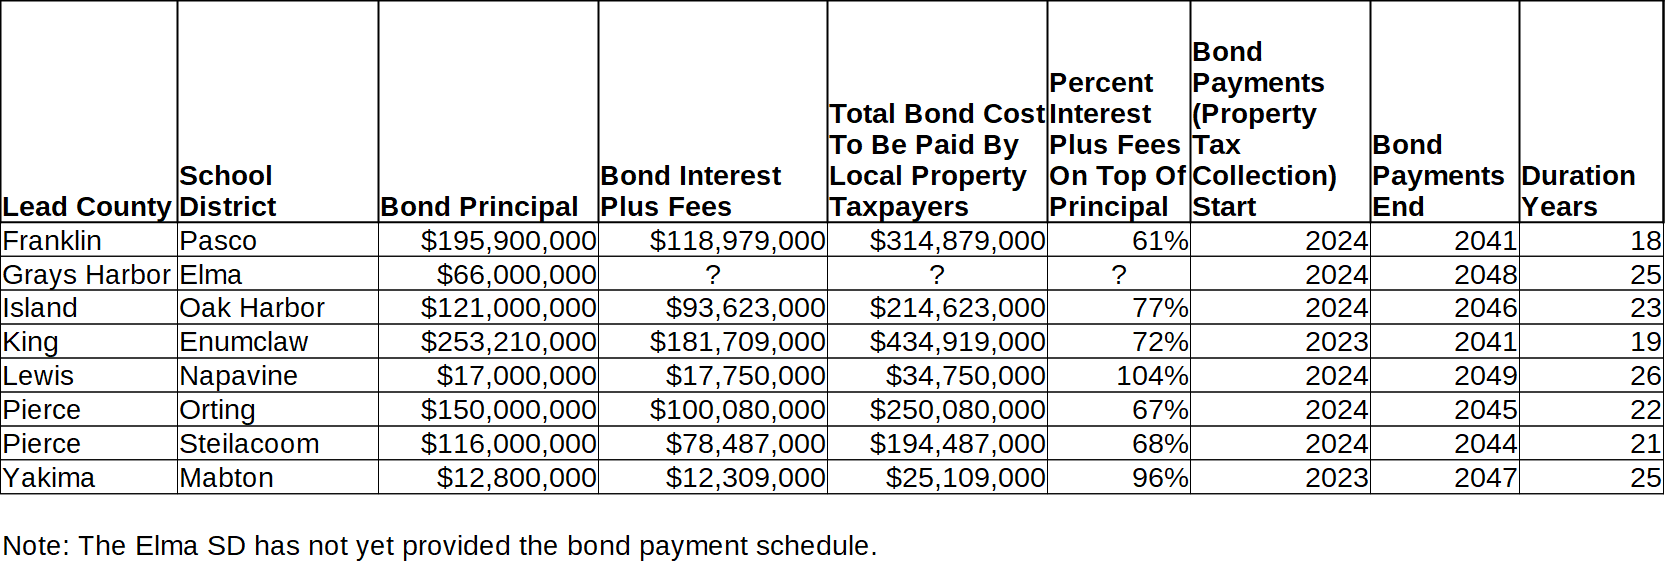
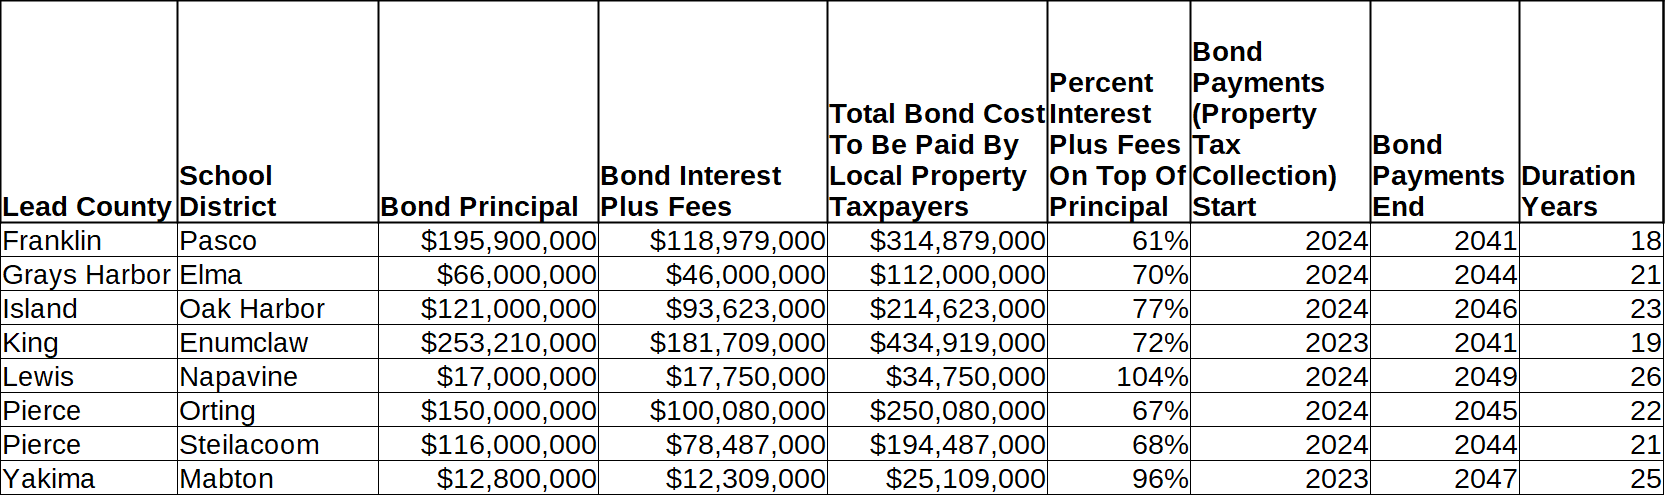
Updated bonds

Changed region(s): [[0.0, 0.0599, 1.0, 0.988]]

diff --git a/_includes/cost_estimates/20230214/Elma_20230214_Enhanced.html b/_includes/cost_estimates/20230214/Elma_20230214_Enhanced.html
@@ -1,0 +1,228 @@
+<html>
+ <head>
+  <script type="text/javascript" src="https://www.gstatic.com/charts/loader.js"></script>
+  <script type="text/javascript">
+    google.charts.load('current', {'packages':['corechart','bar','table']});
+    google.charts.setOnLoadCallback(drawStuff);
+
+	var table_input;
+	var table;
+	var chart;
+	//var data;
+	var dataParcel;
+	
+	totalBondAV = 1236590000;
+	sampleParcelAV = 300000;
+	sampleParcelAVMin = 100000;
+	sampleParcelAVMax = 2000000;
+	totalBondPrincipal = 66000000;
+	totalBondInterest = 45837000;
+	totalBondCost = totalBondPrincipal + totalBondInterest;
+	sampleParcelPOF = sampleParcelAV / totalBondAV;
+	totalBondCostParcel = 0;
+	totalBondPrincipalParcel = 0;
+	totalBondInterestParcel = 0;
+	bondYears = 21;
+	averageTotalBondCostParcel = 0;
+
+	// POF Annual Change Percent
+	pofAdjust = 0;
+	pofAdjustMin = -1.0;
+	pofAdjustMax = 1.0;
+
+    function drawStuff() {
+		data = new google.visualization.DataTable();
+		data.addColumn('string', 'Year');
+		data.addColumn('number', 'Principal');
+		data.addColumn('number', 'Interest + Fees');
+
+		data.addRows([
+			['2024', 2238200, 1702800],
+			['2025', 835691, 3218309],
+			['2026', 925674, 3241326],
+			['2027', 1112961, 3179039],
+			['2028', 1291170, 3121830],
+			['2029', 1485530, 3055470],
+			['2030', 1693872, 2979128],
+			['2031', 1918911, 2892089],
+			['2032', 2157502, 2793498],
+			['2033', 2412343, 2682657],
+			['2034', 2682271, 2558729],
+			['2035', 2977056, 2420944],
+			['2036', 3287975, 2268025],
+			['2037', 3613860, 2099140],
+			['2038', 3971477, 1913523],
+			['2039', 4347454, 1709546],
+			['2040', 4745733, 1486267],
+			['2041', 5174462, 1242538],
+			['2042', 5698779, 907221],
+			['2043', 6507791, 288209],
+			['2044', 6921288, 76712],
+
+		]);
+
+		dataParcel = new google.visualization.DataTable();
+		dataParcel.addColumn('string', 'Year');
+		dataParcel.addColumn('number', 'Principal');
+		dataParcel.addColumn('number', 'Interest + Fees');
+
+		dataParcel.addRows(bondYears);
+
+		sampleParcelPOFEffective = sampleParcelPOF;
+		totalBondPrincipalParcel = 0;
+		totalBondInterestParcel = 0;
+		for (let i = 0; i < bondYears; i++) {
+			sampleParcelPOFEffective = sampleParcelPOF * (1 + pofAdjust/100) ** (1 + i);
+			dataParcel.setCell(i, 0, data.getValue(i, 0));
+			dataParcel.setCell(i, 1, data.getValue(i, 1) * sampleParcelPOFEffective);
+			dataParcel.setCell(i, 2, data.getValue(i, 2) * sampleParcelPOFEffective);
+			totalBondPrincipalParcel = totalBondPrincipalParcel +  data.getValue(i, 1) * sampleParcelPOFEffective;
+			totalBondInterestParcel = totalBondInterestParcel +  data.getValue(i, 2) * sampleParcelPOFEffective;
+		}		
+		totalBondCostParcel = totalBondPrincipalParcel + totalBondInterestParcel;
+		averageTotalBondCostParcel = totalBondCostParcel / bondYears;
+
+		options = {
+			title: 'Estimated Bond Cost Schedule For The Sample Parcel',
+			isStacked: true,
+			hAxis: {
+			title: '',
+			//format: 'h:mm a',
+			viewWindow: {
+				min: [7, 30, 0],
+				max: [17, 30, 0]
+			}
+        },
+        vAxis: {
+			title: '$'
+        }
+		};
+	  
+
+		table_input_data = new google.visualization.DataTable();
+		table_input_data.addColumn('string', 'Description');
+		table_input_data.addColumn('number', 'Value');
+		table_input_data.addRows([
+			['Sample Parcel 2022 Tax Year Assessed Value (AV)', sampleParcelAV],
+		]);
+
+		table_data = new google.visualization.DataTable();
+		table_data.addColumn('string', 'Description');
+		table_data.addColumn('number', 'Value');
+		table_data.addRows([
+			['Total cost', totalBondCostParcel],
+			['Average cost per year for 21 years', averageTotalBondCostParcel],
+			['Total principal cost', totalBondPrincipalParcel],
+			['Total interest + fees cost', totalBondInterestParcel],
+		]);
+
+	  
+		chart = new google.visualization.ColumnChart(document.getElementById('chart_div'));
+		formatter = new google.visualization.NumberFormat(
+		{prefix: '$', fractionDigits:0, negativeColor: 'red', negativeParens: true});
+		formatter.format(dataParcel, 1); // Apply formatter to second column
+		formatter.format(dataParcel, 2); // Apply formatter to third column
+		chart.draw(dataParcel, options);
+		
+		table = new google.visualization.Table(document.getElementById('table_output_div'));
+		formatter.format(table_data, 1); // Apply formatter to second column
+		table.draw(table_data, {sort:'disable'});
+		
+		table_input = new google.visualization.Table(document.getElementById('table_input_div'));
+		formatter.format(table_input_data, 1); // Apply formatter to second column
+		table_input.draw(table_input_data, {sort:'disable'});
+
+		// POF Adjust table
+		table_pof_adjust_input_data = new google.visualization.DataTable();
+		table_pof_adjust_input_data.addColumn('string', 'Description');
+		table_pof_adjust_input_data.addColumn('number', 'Value');
+		table_pof_adjust_input_data.addRows([
+			['POF annual change', pofAdjust ],
+		]);
+ 
+		// Input table for POF change
+		formatterPercent1 = new google.visualization.NumberFormat(
+			{suffix: '%', fractionDigits:1, negativeColor: 'red', negativeParens: false});
+		table_pof_adjust_input = new google.visualization.Table(document.getElementById('table_pof_adjust_input_div'));
+		formatterPercent1.format(table_pof_adjust_input_data, 1); // Apply formatter to second column
+		table_pof_adjust_input.draw(table_pof_adjust_input_data, {sort:'disable'});
+	}
+
+    function changeParcelAV(dir) {
+		//Update table input
+		sampleParcelAV = sampleParcelAV + dir
+		if (sampleParcelAV < sampleParcelAVMin)
+			sampleParcelAV = sampleParcelAVMin
+		if (sampleParcelAV > sampleParcelAVMax)
+			sampleParcelAV = sampleParcelAVMax
+		sampleParcelPOF = sampleParcelAV / totalBondAV;
+		table_input_data.setValue(0, 1, sampleParcelAV);
+		formatter.format(table_input_data, 1); // Apply formatter to second column
+		table_input.draw(table_input_data);
+
+		//Update chart
+		sampleParcelPOFEffective = sampleParcelPOF;
+		totalBondPrincipalParcel = 0;
+		totalBondInterestParcel = 0;
+		for (let i = 0; i < bondYears; i++) {
+			sampleParcelPOFEffective = sampleParcelPOF * (1 + pofAdjust/100) ** (1 + i);
+			dataParcel.setCell(i, 0, data.getValue(i, 0));
+			dataParcel.setCell(i, 1, data.getValue(i, 1) * sampleParcelPOFEffective);
+			dataParcel.setCell(i, 2, data.getValue(i, 2) * sampleParcelPOFEffective);
+			totalBondPrincipalParcel = totalBondPrincipalParcel +  data.getValue(i, 1) * sampleParcelPOFEffective;
+			totalBondInterestParcel = totalBondInterestParcel +  data.getValue(i, 2) * sampleParcelPOFEffective;
+		}		
+		totalBondCostParcel = totalBondPrincipalParcel + totalBondInterestParcel;
+		averageTotalBondCostParcel = totalBondCostParcel / bondYears;
+		formatter.format(dataParcel, 1); // Apply formatter to second column
+		formatter.format(dataParcel, 2); // Apply formatter to third column
+		chart.draw(dataParcel, options);
+
+		//Update table output
+		sampleParcelPOF = sampleParcelAV / totalBondAV;
+		//totalBondCostParcel = sampleParcelPOF * totalBondCost;
+		//totalBondPrincipalParcel = sampleParcelPOF * totalBondPrincipal;
+		//totalBondInterestParcel = sampleParcelPOF * totalBondInterest;
+		table_data.setValue(0, 1, totalBondCostParcel); // Total bond cost parcel
+		table_data.setValue(1, 1, averageTotalBondCostParcel); // Average cost per year for parcel
+		table_data.setValue(2, 1, totalBondPrincipalParcel); // Total principal for parcel
+		table_data.setValue(3, 1, totalBondInterestParcel); // Total interest + fees for parcel
+		formatter.format(table_data, 1); // Apply formatter to second column
+		table.draw(table_data);
+    }
+	
+	function changePOFChange(dir) {
+		pofAdjust = pofAdjust + dir;
+		if (pofAdjust < pofAdjustMin)
+			pofAdjust = pofAdjustMin;
+		if (pofAdjust > pofAdjustMax)
+			pofAdjust = pofAdjustMax;
+		table_pof_adjust_input_data.setValue(0, 1, pofAdjust);
+		formatterPercent1.format(table_pof_adjust_input_data, 1); // Apply formatter to second column
+		table_pof_adjust_input.draw(table_pof_adjust_input_data);
+		changeParcelAV(0);
+	}
+
+  </script>
+ </head>
+ <body>
+  <H2>Property tax impact estimate calculator for the February 14th 2023 bond measure proposed by the Elma SD</H2>
+  <p>Created by the author independently from and not associated with the school district</p>
+  <H3>Input</H3>
+  <div id="table_input_div" style="width:1200px; height: 60px;"></div>
+  <input type="button" value="Increase Sample Parcel 2022 Tax Year AV" onclick="changeParcelAV(50000)" />
+  <input type="button" value="Decrease Sample Parcel 2022 Tax Year AV" onclick="changeParcelAV(-50000)" />
+  <p></p>
+  <div id="table_pof_adjust_input_div" style="width:1200px; height: 60px;"></div>
+  <input type="button" value="Increase POF Annual Change" onclick="changePOFChange(0.1)" />
+  <input type="button" value="Decrease POF Annual Change" onclick="changePOFChange(-0.1)" />
+  <p></p>
+  <H3>Output</H3>
+  <p>Estimated obligations for the sample parcel</P>
+  <div id="table_output_div" style="width:1200px; height: 130px;"></div>
+  <div id="chart_div" style="width:800px; height: 640px;"></div>
+  <H3>Data Sources</H3>
+  <p>District's bond/levy projection datasheet obtained from a public records request</p>
+ </body>
+</html>
+

diff --git a/pagesManual/LeviesReport/report_levies_20230214.md b/pagesManual/LeviesReport/report_levies_20230214.md
@@ -45,6 +45,8 @@ ___
 
 [Calculator for the Centralia SD's Enrichment Measure](calculator_centralia_20230214_enhanced){:target="_blank" rel="noopener"}
 
+[Calculator for the Elma SD's Bond Measure](calculator_elma_20230214_enhanced){:target="_blank" rel="noopener"}
+
 [Calculator for the Enumclaw SD's Bond Measure](calculator_enumclaw_20230214_enhanced){:target="_blank" rel="noopener"}
 
 [Calculator for the Evaline SD's Bond Measure](calculator_evaline_20230214_enhanced){:target="_blank" rel="noopener"}
@@ -145,6 +147,8 @@ ___
 ___
 
 ## Bond amounts charts
+
+![Elma SD bond amounts chart](pagesManual/LeviesReport/20230214/Elma.png "Enumclaw SD bond amounts chart")
 
 ![Enumclaw SD bond amounts chart](pagesManual/LeviesReport/20230214/Enumclaw.png "Enumclaw SD bond amounts chart")
 

diff --git a/pagesManual/LeviesReport/20230214/calculator_elma_20230214_enhanced.md b/pagesManual/LeviesReport/20230214/calculator_elma_20230214_enhanced.md
@@ -1,0 +1,13 @@
+---
+layout: page
+title: Calculator
+permalink: calculator_elma_20230214_enhanced
+---
+
+___
+
+{% include cost_estimates/20230214/Elma_20230214_Enhanced.html %}
+
+___
+
+
